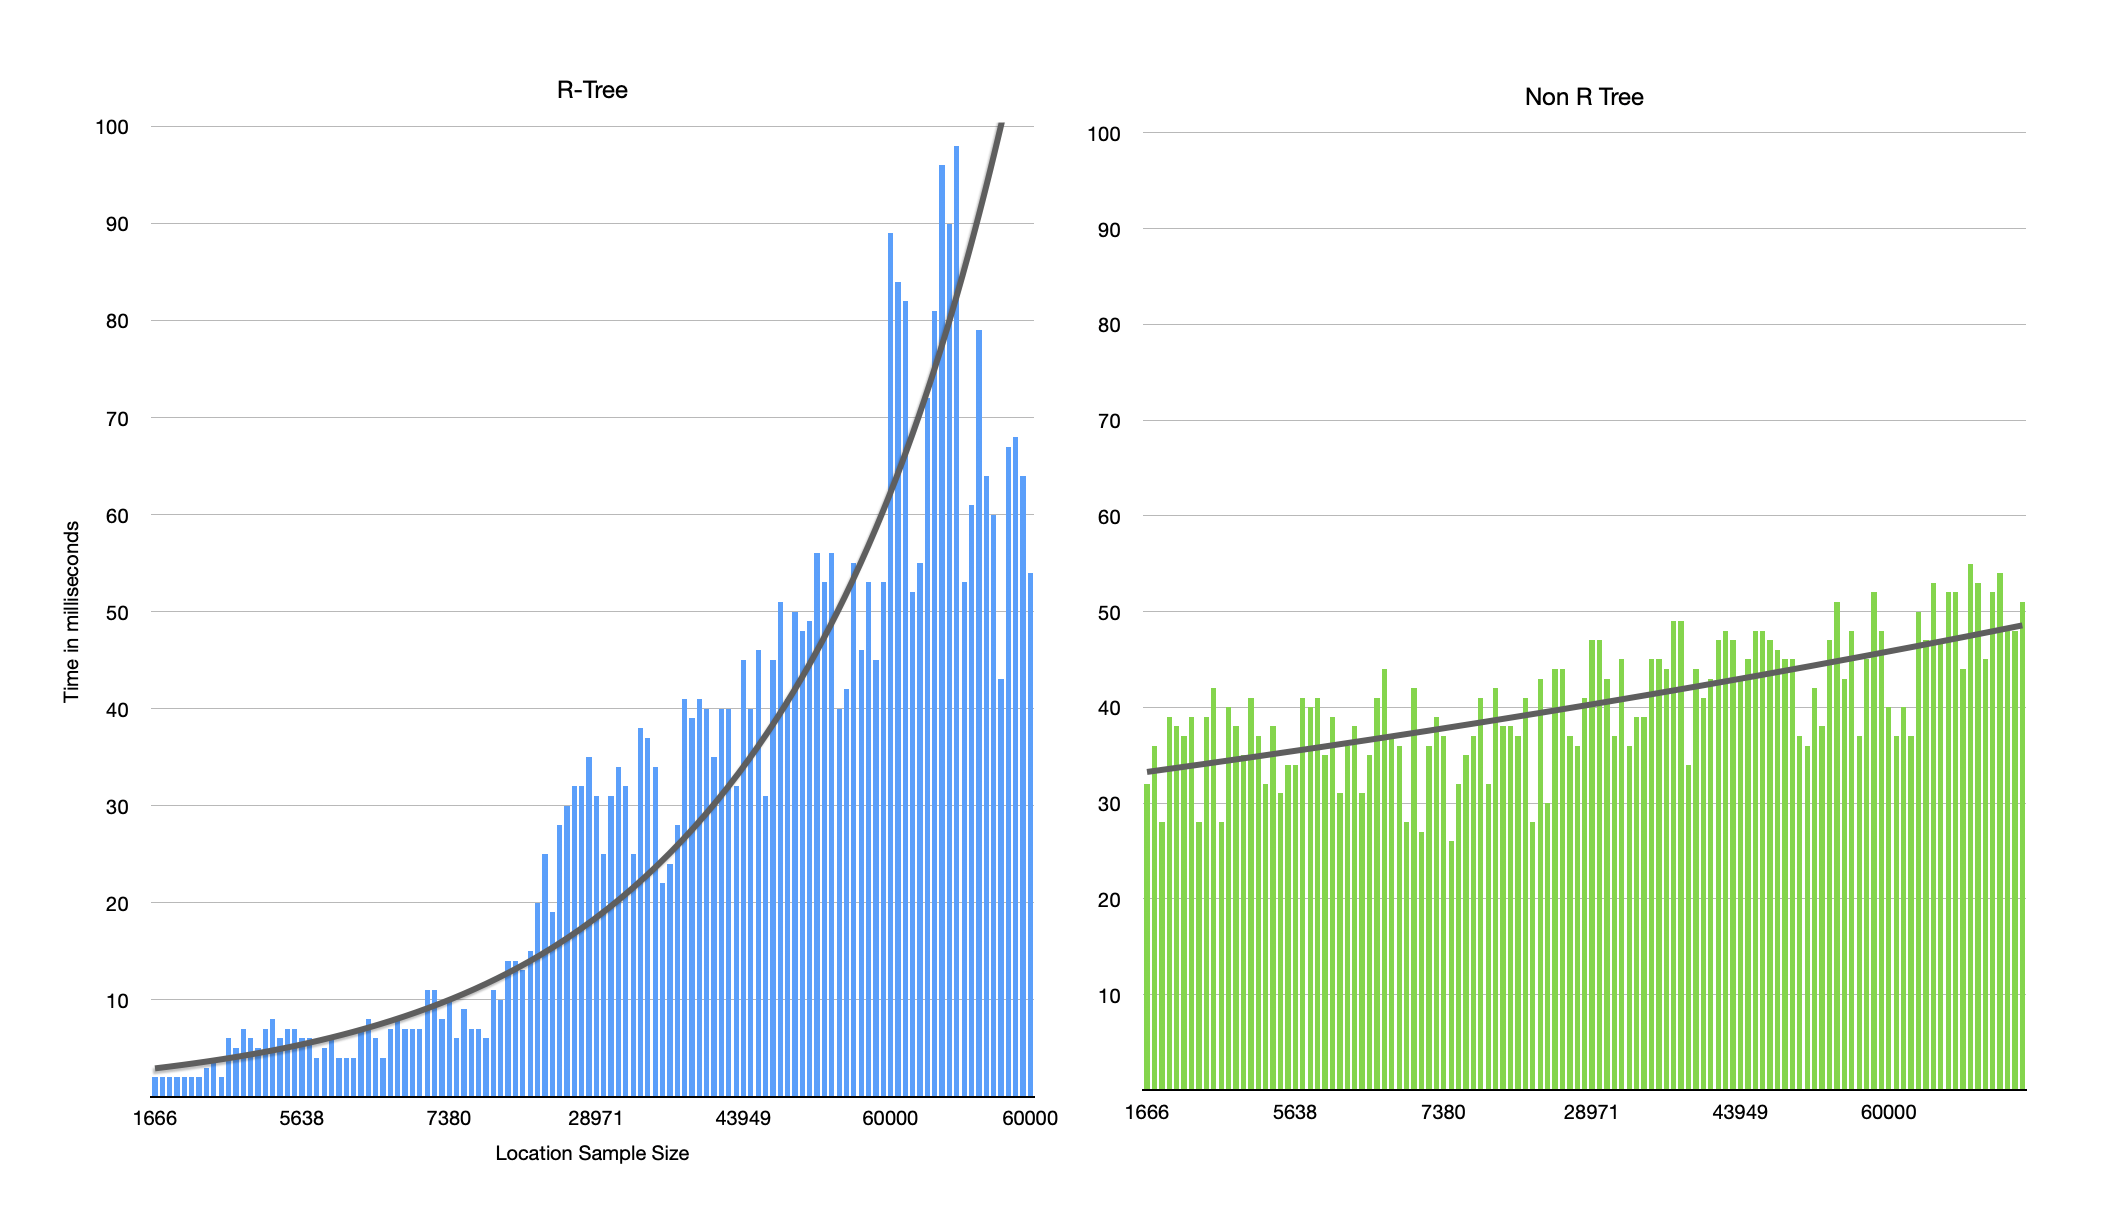
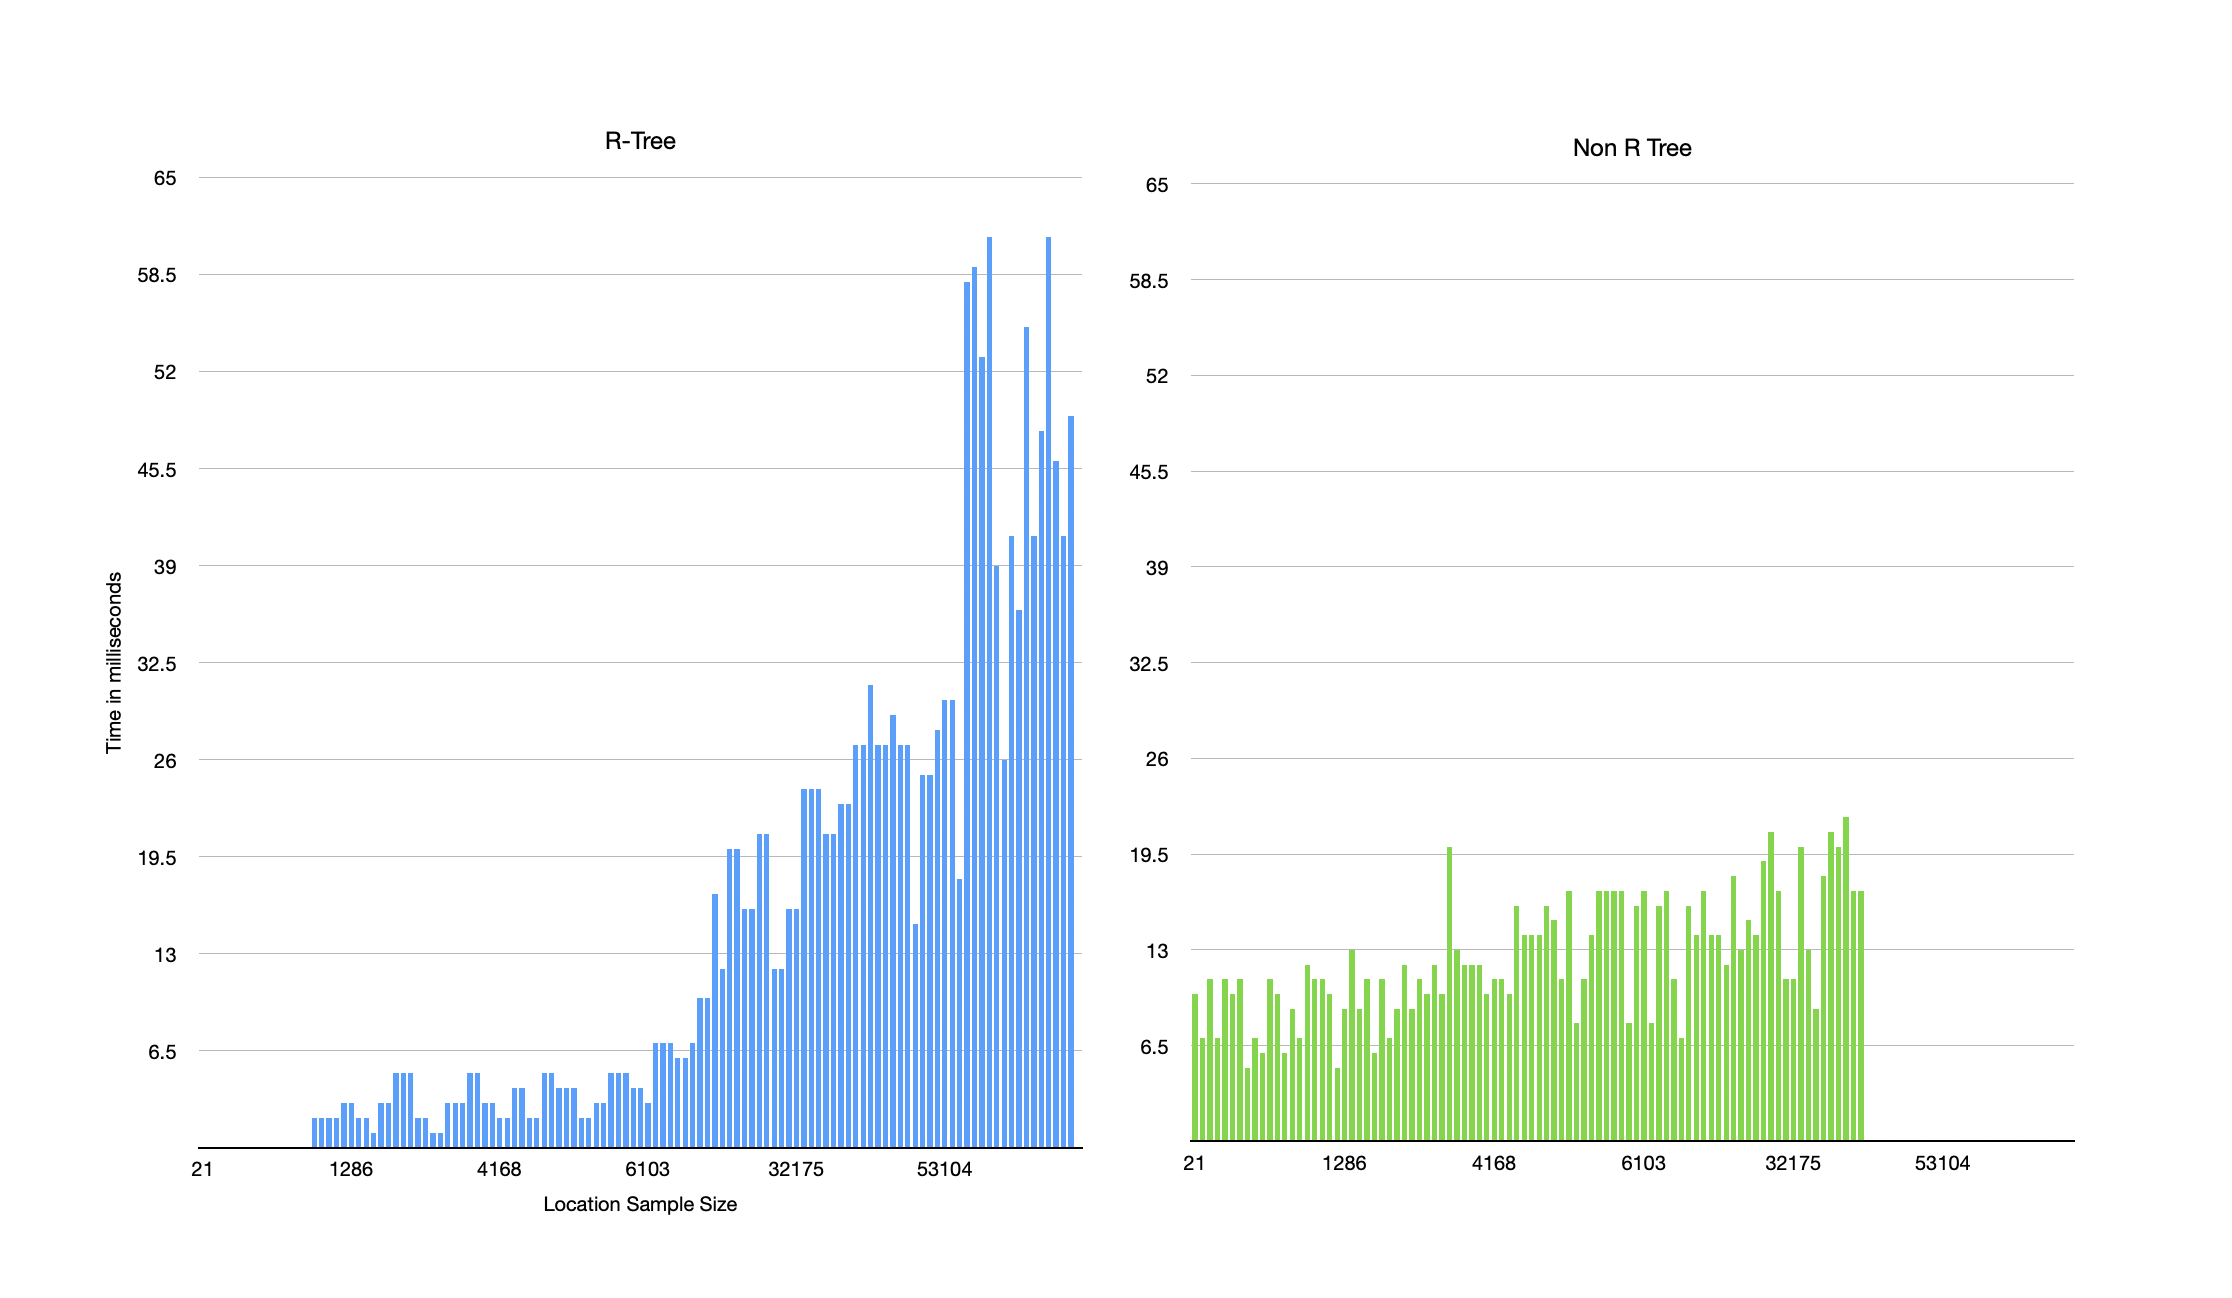
feature(markers): updated metrics taken from profile mode

diff --git a/lib/data/data_sources/oil_well_local_data_source.dart b/lib/data/data_sources/oil_well_local_data_source.dart
@@ -323,7 +323,7 @@ class OilWellLocalDataSourceImpl extends OilWellLocalDataSource {
                 ),
               );
               withinBox.addAll(wells.take(60000));
-              print('found ${withinBox.length} wells in visible area');
+              // print('found ${withinBox.length} wells in visible area');
             });
 
         if (sort) {
@@ -389,8 +389,8 @@ abstract class Logger {
     final start = DateTime.now();
     await operation();
     final end = DateTime.now();
-    print(
-        'identifier: $identifier -- ${end.difference(start).inMilliseconds} milliseconds');
+    // print(
+    //     'identifier: $identifier -- ${end.difference(start).inMilliseconds} milliseconds');
     return end.difference(start).inMilliseconds;
   }
 }

diff --git a/assets/cached_location_loading.md b/assets/cached_location_loading.md
@@ -23,17 +23,17 @@ I used two approaches to the problem:
 Testing yielded some interesting results. The R-Tree performed extremely well when searching less than ten thousand locations but performance suffered as the sample size increased beyond twenty thousand. 
 
 - Under 10,000 locations
-  - R-Tree: 5.5 ms
-  - Non-R-Tree: 35.8 ms
+  - R-Tree: 2.76 ms
+  - Non-R-Tree: 9.87 ms
 - 10k - 30k locations
-  - R-Tree: 23.4 ms
-  - Non-R-Tree: 39.4 ms
+  - R-Tree: 16.3 ms
+  - Non-R-Tree: 12.9 ms
 - Above 30k locations
-  - R-Tree: 57.0 ms
-  - Non-R-Tree: 45.5 ms
+  - R-Tree: 32.2 ms
+  - Non-R-Tree: 15 ms
 
 ![](chart.png)
 
-I don't have any metrics on the R-Tree internal implementation, but it's likely related to how R-Tree's are structured. Each node is a tuple containing a rectangle and items that lie within the rectangle. The items can be either a child node or leaf nodes which the rectangle contains. When searching for items, we traverse the tree by checking the rectangles to see if they contain our item. Since we do not have to check every item in the collection, searches happen very quickly. Creating the rectangle keys will also create additional items in the collection which may explain the performance degradation above 30k items when the search area is too large.
+I don't have any metrics on the R-Tree internal implementation, but it's likely related to how R-Tree's are structured. Each node is a tuple containing a rectangle and items that lie within the rectangle. The items can be either a child node or leaf nodes which the rectangle contains. When searching for items, we traverse the tree by checking the rectangles to see if they contain our item. Since we do not have to check every item in the collection, searches happen very quickly. Creating the rectangle keys will also create additional items in the collection which may explain the performance degradation above 20k items when the search area is too large.
 
 Given the sample sizes and zoom levels that the application will be used with, the R-Tree provides exceptional performance for the likely real-world use case.
